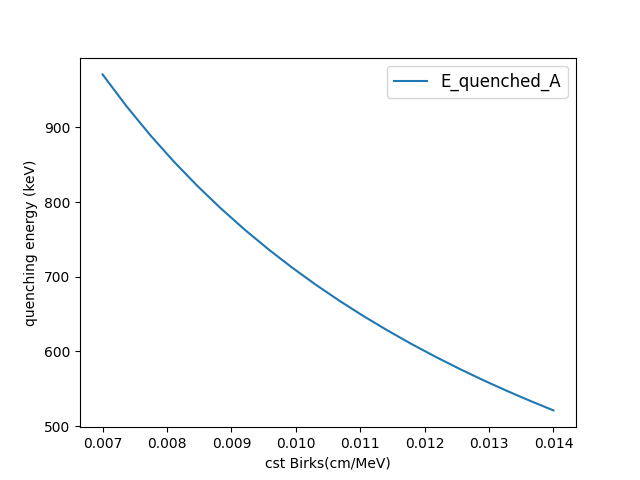
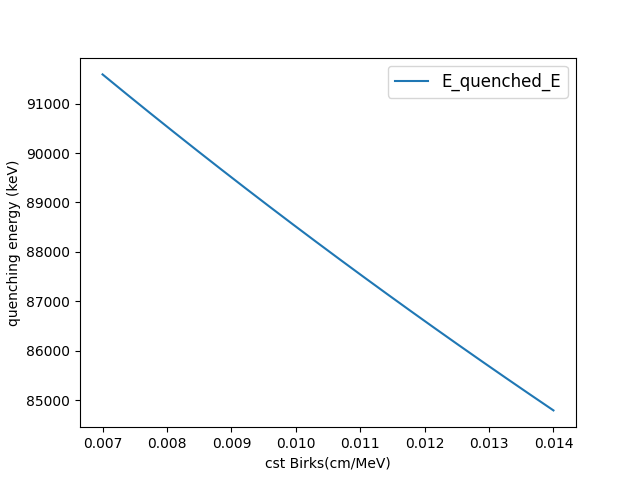
quenching electron

diff --git a/MCTDCRcode/TDCR_model_lib.py b/MCTDCRcode/TDCR_model_lib.py
@@ -301,6 +301,7 @@ def readBetaShape(rad,mode,trans):
 
 
 #'''
+'''
 e_alpha = np.linspace(1,8e3,8000) #keV
 delta_a = e_alpha[2] - e_alpha[1]
 doc = 'alpha_toulene.txt'
@@ -323,10 +324,10 @@ for i in kB2:
     for j in e_e:
         spe += delta_e/(1+i*stoppingpower(j,rho=0.96,Z=72,A=152))
     Eq_e.append(spe)
-'''
-kB2 = np.linspace(0.007,0.014,20) #cm/MeV
-plt.plot(kB2,Eq_a,label='E_quenched_A')
-#plt.plot(kB2,Eq_e,label='E_quenched_E')
+#'''
+#kB2 = np.linspace(0.007,0.014,20) #cm/MeV
+#plt.plot(kB2,Eq_a,label='E_quenched_A')
+plt.plot(kB2,Eq_e,label='E_quenched_E')
 #plt.plot(x,dEdx,label='modèle_ESTAR')
 #plt.xscale('log')
 #plt.yscale('log')
